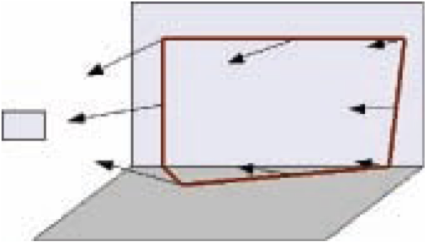
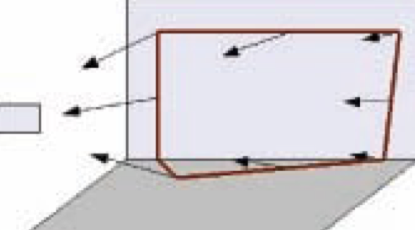
Crop figures of methods to make their border clearer

diff --git a/doc/Chapters/Chapter2.tex b/doc/Chapters/Chapter2.tex
@@ -24,7 +24,7 @@ There may be many methods for visualizing the viewing fields, not limited to the
 	\item It should be easy to understand when users see the visualized viewing fields of surrounding surveillance cameras.
 	\item It should work in realtime. When the user changes the position or orientation of the mobile device, the MR video displayed on the screen of the mobile device should simultaneously change accordingly to the movement with no or little delay.
 	\item It should have good accuracy. In order to correctly overlay CG objects onto the original video taken at the user side, the position and orientation of the mobile camera must be estimated within a small error.
-	\item It should be robust to disturbance in outdoor environment. Some of the disturbance that may arise in real situations are passers in front of the camera and GPS signal noise/weakness. For example, in outdoor environment, there may be bicycle riders passing by and they may temporary block the camera. Another example is that if the system use GPS device, the GPS signal strength may change a lot when the user walk from an open space to a space shadowed by trees or buildings.
+	\item It should be robust to disturbance in outdoor environment. Some of the disturbance that may arise in real situations are passers in front of the camera and GPS signal noise/weakness. For example, in outdoor environment, there may be bicycle riders passing by and they may temporary occlude the camera. Another example is that if the system use GPS device, the GPS signal strength may change a lot when the user walk from an open space to a space shadowed by trees or buildings.
 \end{itemize}
 
 We must take the above requirements into account when implementing the prototype in chapter \ref{Chapter3} and conducting experiment to evaluate the visualization methods.
@@ -34,70 +34,70 @@ We must take the above requirements into account when implementing the prototype
 \section{Visualization Methods}
 \label{VisualizationMethods}
 
-% In this section, we propose five methods to visualize viewing fields of . This section discusses the idea and algorithm of the methods. Based on this discussion, chapter \ref{Chapter3} will implement and integrate these methods into a working prototype.
-% 
-% \subsection{Volume Method}
-% 
-% As discussed above, the natural method to visualize the viewing field is thus simply visualizing this volume (figure \ref{fig:VolumeMethod}). However, the volume usually occupies all the scene viewed from the mobile camera, especially if the user is inside the viewing volume. The visualization produced by this method is hard to understand.
-% 
-% \begin{figure}[htbp]
-% 	\centering
-% 	\includegraphics{./Primitives/theory_volume.png}
-% 	\rule{35em}{0.5pt}
-% 	\caption[Volume Method]{Volume Method}
-% 	\label{fig:VolumeMethod}
-% \end{figure}
-% 
-% \subsection{Shadow Method}
-% 
-% The fact that the frame captured by the camera is perspective projection of the volume into the near plane of the frustum gives us another method. This method visualizes the virtual shadow created by the light positioned at the eye-point of the camera and the near plane of the frustum (figure \ref{fig:ShadowMethod}). This method gives more understandable visualization. There are various ways to render the shadow, the two popular ones are shadow mapping \cite{Reference7} \cite{Reference8} and volume shadow \cite{Reference9}.
-% 
-% \begin{figure}[htbp]
-% 	\centering
-% 	\includegraphics{./Primitives/theory_shadow.png}
-% 	\rule{35em}{0.5pt}
-% 	\caption[Shadow Method]{Shadow Method}
-% 	\label{fig:ShadowMethod}
-% \end{figure}
-% 
-% \subsection{Contour Method}
-% 
-% An alternative method is to only visualize the contours of the shadow (figure \ref{fig:ContourMethod}). Rendering only the contour is much lighter than rendering the whole shadow, thus this method is supposed to be much faster.
-% 
-% \begin{figure}[htbp]
-% 	\centering
-% 	\includegraphics{./Primitives/theory_contour.png}
-% 	\rule{35em}{0.5pt}
-% 	\caption[Contour Method]{Contour Method}
-% 	\label{fig:ContourMethod}
-% \end{figure}
-% 
-% \subsection{Vector Method}
-% 
-% For most of the time, a person may want to know not only the viewing field, but also the position and distance to the surveillance camera, To visualize this information, we propose a method using vectors (figure \ref{fig:VectorMethod}). In the figure, all the vectors are pointing the camera, and the length of the vectors are reverse proportional to the distance from the root of the vectors to the camera.
-% 
-% \begin{figure}[htbp]
-% 	\centering
-% 	\includegraphics{./Primitives/theory_vector.png}
-% 	\rule{35em}{0.5pt}
-% 	\caption[Vector Method]{Vector Method}
-% 	\label{fig:VectorMethod}
-% \end{figure}
-% 
-% \subsection{Animation Method}
-% 
-% We are studying the visualization method in which animate objects coming from the surveillance cameras are used to visualize the viewing fields. This method has  many advantages:
-% 
-% \begin{itemize}
-% 	\item The moving objects start form the surveillance camera positions, as a result the user easily knows the camera positions.
-% 	\item Event when the mobile camera is fixed at a certain position and orientation, the visualization effect is still achieved.
-% 	\item The moving objects do not block the scene, as a result the user can see the scene and visualized camera viewing fields at the same time.
-% \end{itemize}
-% 
-% \begin{figure}[htbp]
-% 	\centering
-% 	\includegraphics{./Primitives/theory_animation.png}
-% 	\rule{35em}{0.5pt}
-% 	\caption[Animation Method]{Animation Method}
-% 	\label{fig:AnimationMethod}
-% \end{figure}
+This section discusses the idea of five visualization methods. Chapter \ref{Chapter3} will implement and integrate them into a working prototype. Chapter \ref{Chapter4} will conduct an experiment to evaluate them.
+
+\subsection{Volume Method}
+
+As discussed above, the natural method to visualize the viewing field is simply visualizing the viewing volume (figure \ref{fig:VolumeMethod}). However, the volume usually occludes parts of the mobile device's screen, especially if the user is inside the viewing volume, hence may be hard to understand.
+
+\begin{figure}[htbp]
+	\centering
+	\includegraphics{./Primitives/theory_volume.png}
+	\rule{35em}{0.5pt}
+	\caption[Volume Method]{Volume Method}
+	\label{fig:VolumeMethod}
+\end{figure}
+
+\subsection{Shadow Method}
+
+The fact that the frame captured by the camera is perspective projection of the volume into the near plane of the frustum gives us another method. This method visualizes the virtual shadow created by the light positioned at the eye-point of the camera and the near plane of the frustum (figure \ref{fig:ShadowMethod}). This method may give more understandable visualization. There are various ways to render the shadow, the two popular ones are shadow mapping \cite{Reference7} \cite{Reference8} and volume shadow \cite{Reference9}.
+
+\begin{figure}[htbp]
+	\centering
+	\includegraphics{./Primitives/theory_shadow.png}
+	\rule{35em}{0.5pt}
+	\caption[Shadow Method]{Shadow Method}
+	\label{fig:ShadowMethod}
+\end{figure}
+
+\subsection{Contour Method}
+
+An alternative method is to only visualize the contours of the shadow (figure \ref{fig:ContourMethod}) to reduce the occlusion of the CG object. Rendering only the contour is much lighter than rendering the whole shadow, thus this method is supposed to be much faster.
+
+\begin{figure}[htbp]
+	\centering
+	\includegraphics{./Primitives/theory_contour.png}
+	\rule{35em}{0.5pt}
+	\caption[Contour Method]{Contour Method}
+	\label{fig:ContourMethod}
+\end{figure}
+
+\subsection{Vector Method}
+
+For most of the time, a person may want to know not only the viewing field, but also the position and distance to the surveillance camera, To visualize this information, we propose a method using vectors (figure \ref{fig:VectorMethod}). In the figure, all the vectors are pointing the camera, and the length of the vectors are reverse proportional to the distance from the root of the vectors to the camera.
+
+\begin{figure}[htbp]
+	\centering
+	\includegraphics{./Primitives/theory_vector.png}
+	\rule{35em}{0.5pt}
+	\caption[Vector Method]{Vector Method}
+	\label{fig:VectorMethod}
+\end{figure}
+
+\subsection{Animation Method}
+
+This method uses moving CG objects (figure \ref{fig:AnimationMethod}) coming from the surveillance cameras to the ground (or vice versa from the ground to the cameras) to to visualize the viewing fields. This method has  many advantages:
+
+\begin{itemize}
+	\item The moving CG objects start from the surveillance camera positions (or move towards the cameras). As a result the user easily knows the camera positions.
+	\item Even when the mobile device is fixed at a certain position and orientation, the visualization effect is still achieved because of the moving CG objects.
+	\item The moving CG objects do not occlude the scene. As a result the user can easily see the scene and the visualized camera viewing fields at the same time.
+\end{itemize}
+
+\begin{figure}[htbp]
+	\centering
+	\includegraphics[width=10cm]{./Primitives/theory_animation.png}
+	\rule{35em}{0.5pt}
+	\caption[Animation Method]{Animation Method}
+	\label{fig:AnimationMethod}
+\end{figure}

diff --git a/doc/Chapters/Chapter3.tex b/doc/Chapters/Chapter3.tex
@@ -7,11 +7,9 @@ In this chapter, we implement a prototype based on PTAM \cite{Reference12}. The 
 
 \section{System Architecture}
 
-The mobile device used in the prototype is a Sony VAIO VGN-UX90PS (see appendix \ref{AppendixA}). We base our program on the PTAM reference implementation source code \cite{Reference16} to get the position and orientation of the VAIO. However, this implementation cannot run on the VAIO because it requires a dual core CPU computer to be able to run smoothly. As a result, we connect a MacBook Pro (appendix \ref{AppendixB}) to the VAIO and the PTAM part of the program will run on the MacBook (figure \ref{fig:VAIOMacBookPro}).
+The mobile device used in the prototype is a Sony VAIO VGN-UX90PS (see appendix \ref{AppendixA}). We base our program on the PTAM reference implementation source code \cite{Reference16} to get the position and orientation of the VAIO. However, this implementation cannot run on the VAIO because it requires a dualcore CPU computer to be able to run smoothly. As a result, we connect a MacBook Pro (appendix \ref{AppendixB}) to the VAIO and the PTAM part of the program will run on the MacBook (figure \ref{fig:VAIOMacBookPro}).
 
-The VAIO and the MacBook are connected by a 11Mbps wireless network. For the sake of quick setup time, the VAIO and the MacBook are connected directly using ad hoc mode, which means that an additional wireless hub is not needed.
-
-The MacBook may run at 54Mbps, but the VAIO's built-in wireless network card can only run at 11Mbps. The 11Mbps is sufficient for the current prototype. For faster network speed, we can attach a 54Mbps auxiliary wireless network card for the VAIO. We can also use LAN cable for even faster 100 Mbps speed, but the VAIO will be wired to another bulky device, which is not desirable because the mobility of the VAIO is totally lost.
+The programs on both VAIO and MacBook Pro run on Microsoft Windows XP SP2 operating system. For the sake of quick setup time, the VAIO and the MacBook are connected directly using ad hoc mode, which means that an additional wireless hub is not needed. The VAIO and the MacBook are connected by a 11Mbps wireless network. The network interfaces on both VAIO and MacBook Pro are able to work at 54Mbps, but for some reason of Windows they can only work at 11Mbps. This is an unexpected problem which lowers the speed, and consequently the accuracy and stability of the prototype system. We can also use LAN cable for even faster 100 Mbps speed, but the VAIO will be wired to another bulky device, which is not desirable because the mobility of the VAIO is totally lost.
 
 %------------------------------------------------------------------------------
 
@@ -34,7 +32,7 @@ As the above explanation suggests, we use ``push'' instead of ``pull'', one side
 	\label{fig:MailboxRPC}
 \end{figure}
 
-Because PTAM only need grayscale frames, instead of sending all the three RGB color channels of the frames, the VAIO only need to send the brightness Y = 0.3*R + 0.59*G + 0.11*B. There are serveral optimizations to further improve the frame rate sent to the MacBook:
+Because PTAM only need grayscale frames, instead of sending all the three RGB color channels of the frames, the VAIO only need to send the brightness Y = 0.3*R + 0.59*G + 0.11*B. There are several optimizations to further improve the frame rate sent to the MacBook:
 
 \begin{itemize}
 	\item Send G color channel instead of Y, because G affects Y the most as in the above common equation. This does not affect PTAM. This optimization enormously improves the frame rate because when we send Y, if the image size is 320x240, we must apply the above equation 76800 times for each frame!
@@ -47,7 +45,7 @@ Because PTAM only need grayscale frames, instead of sending all the three RGB co
 		\label{tb:FrameRates}
 		\begin{tabular}{|c|c|c|r|}
 			\hline
-			Size (only G color channel) & Compressed & With PTAM processing & FPS   \\
+			Size (only green color channel) & Compressed & With PTAM processing & FPS   \\
 			\hline
 			320x240 & NO         & NO                   &  8.01 \\
 			320x240 & YES        & NO                   & 10.67 \\
@@ -62,7 +60,7 @@ Because PTAM only need grayscale frames, instead of sending all the three RGB co
 	\end{center}
 \end{table}
 
-The prototype uses frame size of 320x240. This gives smooth frame rate with be above system architecture and optimizations. Bigger frame size allows PTAM to find more feature points, but the following drawbacks pop up:
+However, as table \ref{tb:FrameRates} suggests, we should use 320x240 frame size with uncompressed green color channel. This gives smooth frame rate with be above system architecture and optimizations. Bigger frame size allows PTAM to find more feature points, but the following drawbacks pop up:
 
 \begin{itemize}
 	\item Data for each frame gets bigger. This increases data transmission time for each frame.
@@ -83,6 +81,7 @@ To make the CG objects look more ``real'', we may also use a rough 3D model of t
 %------------------------------------------------------------------------------
 
 \section{Map Initializing and 3D Model Registering}
+\label{MapInitializing}
 
 PTAM continuously builds and maintains a 3D map by adding stable feature points and removing unstable ones taken from the frames (figure \ref{fig:Map}). The problem is the 3D model must be in match with this map. When the scene is unchanged, the map may be rotated or translated but relative positions among the feature points are preserved. Thus we have the following workflow:
 

diff --git a/doc/Chapters/Chapter4.tex b/doc/Chapters/Chapter4.tex
@@ -7,19 +7,49 @@ In this chapter, we use the prototype implemented in chapter \ref{Chapter3} to c
 
 \section{Evaluation Condition}
 
-Ten users of about 20--30 years old are invited to use the system with the five visualization methods. After that, each user are asked to rank each visualization method in the following categories in five levels:
+Students of about 20--30 years old are invited to use the system with the five visualization methods. After that, each user are asked to rank each visualization method in the following categories in five levels of ranking points (1: worst, 5: best):
 
 \begin{itemize}
-	\item Understandability
+	\item Understandability (for this category, a user must give unique ranking points across all methods)
 	\item Realtimeness
 	\item Accuracy
 	\item Robustness to the disturbance of passers-by and handshaking movement of the mobile device
 \end{itemize}
 
-3D model:The system does not use a server or any real surveillance camera. In place of those, 3D model of the building of the College of International Studies and the gymnasium (Figure [cite]), together with the hard coded geometry information about the virtual surveillance cameras are used.
+We wanted conduct the experiment around the area of College of International Studies and a gymnasium nearby, their 3D model is in figure \ref{fig:VAIOGPSGyro}. However because of time limit, we could only invite three users and conduct at a wall within a small area of about 2x2m of the above area:
+
+\begin{itemize}
+	\item Use the ``control the two keyframes'' method \ref{MapInitializing} to initialize the PTAM map.
+	\item Each user points the VAIO's camera at the wall and see the visualized viewing field of a virtual camera. The user can change the position and/or orientation of the VAIO. They can also walk around the area.
+	\item For the robustness category, when each user is using the VAIO, a person will walk by to partly temporarily occlude the camera.
+\end{itemize}
 
 %------------------------------------------------------------------------------
 
 \section{Result and Discussion}
 
-%A good visualization method is the one in which CG objects used to visualize the viewing fields do not occlude the original scene. Moving objects do not occlude the scene over time, thus
+The result is shown in table \ref{tb:ExperimentResult}. The numbers inside parentheses are points given by the users. The outside numbers are the average of the inside numbers.
+
+\begin{table}[tb]
+	\begin{center}
+		\caption{Result of the evaluation experiment of visualization methods}
+		\label{tb:ExperimentResult}
+		\begin{tabular}{|c|c|c|c|c|}
+			\hline
+			Method    & Understandability & Realtimeness & Accuracy & Robustness \\
+			\hline
+			Volume    & 1.0 (1 1 1) & 3.7 (3 4 4) & 4.7 (4 5 4) & 5.0 (5 5 5) \\
+			Shadow    & 3.0 (3 4 2) & 4.0 (3 5 4) & 4.0 (4 4 4) & 5.0 (5 5 5) \\
+			Contour   & 2.7 (2 2 4) & 4.0 (3 5 4) & 5.0 (5 5 5) & 5.0 (5 5 5) \\
+			Vector    & 3.3 (4 3 3) & 3.7 (3 4 4) & 4.7 (5 4 5) & 5.0 (5 5 5) \\
+			Animation & 5.0 (5 5 5) & 4.0 (3 5 4) & 4.7 (5 5 4) & 5.0 (5 5 5) \\
+			\hline
+		\end{tabular}
+	\end{center}
+\end{table}
+
+The winner of understandability is the animation method. A good visualization method is the one in which CG objects used to visualize the viewing fields do not occlude the scene. Moving objects do not occlude the scene over time, hence the animation method gives the best understandability. Moreover, this method also points out where the surveillance camera. On the contrary, viewing field visualized by the volume method is the worst because the CG object usually occlude large parts of the screen.
+
+The ranking points of other categories are about the same. This is because they are based on the same prototype system, hence they should share the same characteristics specified by each category. Moreover, the users have evaluated the system as very good. We have only conducted the experiment in a small outdoor area. More extensive experiments in various conditions, such as larger areas, different lighting conditions etc. should be conducted before more solid conclusion could be made. In those conditions, methods with non-animated CG objects may be of less understandability because the CG objects may have similar color with the color of the texture of the real scene.
+
+A good gene is usually a mixture of pure gene or other mixed gene. Likewise a good visualization can be a combination of various methods. In the future we should try to combine the methods to find ones better than the current animation method.

diff --git a/doc/Chapters/Chapter5.tex b/doc/Chapters/Chapter5.tex
@@ -10,7 +10,7 @@ This research aims to visualize the viewing fields of outdoor surveillance camer
 	\item A new architecture of online camera calibration: server-side PTAM \cite{Reference12} system. Our prototype system can provide realtime MR video with no requirement for any GPS or gyrocompass devices.
 \end{itemize}
 
-We have also conducted a evaluation experiment on the visualization methods, using the prototype system. Although the experiment is still simple with few evaluators, the result shows that of the five methods, animation method gives the best understandable visualization. This method is preferable because it does not block the scene and gives the users the visualization of both positions and viewing fields of the surveillance cameras.
+We have also conducted a evaluation experiment on the visualization methods, using the prototype system. Although the experiment is still simple with few evaluators, they all agree that of the five methods, animation method gives the best understandable visualization. This method is preferable because it does not occlude the scene and gives the users the visualization of both positions and viewing fields of the surveillance cameras.
 
 The experiment also shows that the prototype system is usable and the server-side PTAM architecture is practical for outdoor MR. Thanks to the advances in wireless networking, server-side processing is a great help to mobile devices, because their computation power are currently limited.
 
@@ -22,4 +22,4 @@ Multicore hardware requires parallel processing software. The frequency of a CPU
 
 After pushing heavy work to the server side, the client side has less work left: sending video images and displaying 3D CG. We can tweak our system to use mobile devices of lower power like Apple iPhone and Google T-Mobile G1, rather than UMPCs like the VAIO. Many existing games on these devices have proved that they are able to display 3D CG perfectly. Because cell phone is a big market, if we can push outdoor MR to cell phones, the market will push back and become a great force for the advance of outdoor MR. Moreover, today's cell phones are usually equipped with GPS and accelerometer devices. We can use them together with the camera to create a multisensor fusion \cite{Reference14} to improve the accuracy of the system.
 
-Wireless network is required to connect the client side and server side. The accuracy and stability of the system can be improved by using high speed network. Our prototype system gives the frame rate as in table \ref{tb:FrameRates} when 11Mbps wireless network is used. Our preliminary experiment with 54Mbps wireless network gives about 10FPS on the iPhone in appendix \ref{AppendixE}. 54Mbps wireless LAN has become common today and our future work may give better result with this network speed.
+Wireless network is required to connect the client side and server side. The accuracy and stability of the system can be improved by using high speed network. Our prototype system gives the frame rate as in table \ref{tb:FrameRates} when 11Mbps wireless network is used. Our latest experiment with 54Mbps wireless network gives about 10FPS on the iPhone in appendix \ref{AppendixE}. 54Mbps wireless LAN has become common today and our future work may give better result with this network speed.
